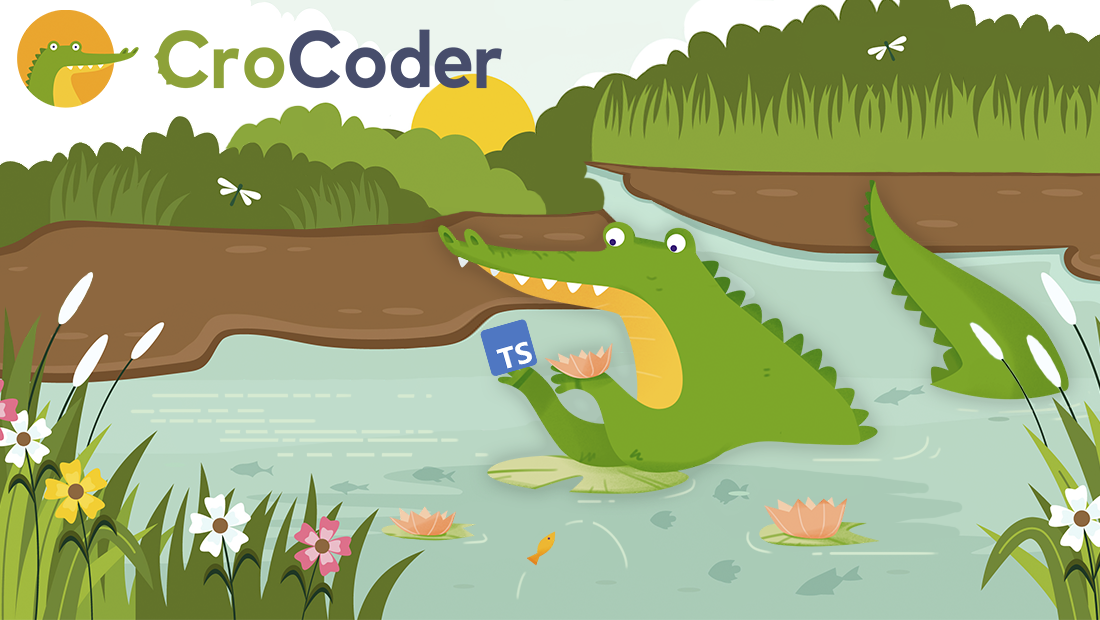
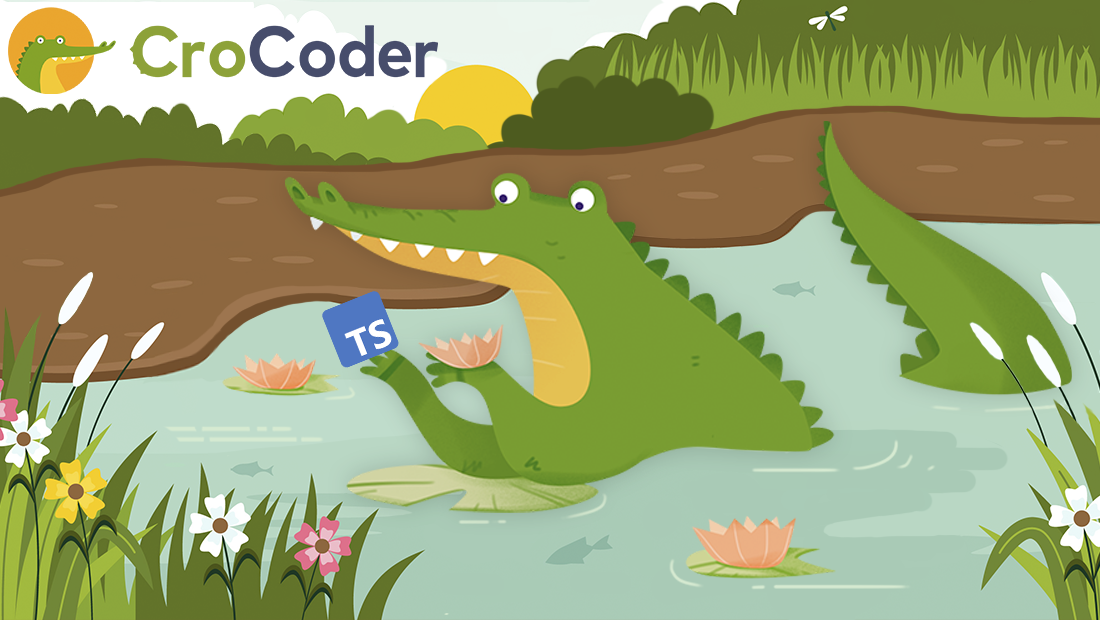
chore: microservice blog update and older hero updates

diff --git a/apps/website/src/content/posts/microservices-are-a-way-to-organize-your-company.md b/apps/website/src/content/posts/microservices-are-a-way-to-organize-your-company.md
@@ -8,7 +8,7 @@ category: "DEVELOPER EXPERIENCE"
 editors: ["velimir"]
 draft: false
 abstract: "Microservices are often praised for boosting team autonomy and enabling rapid development—but are they always the right architectural choice? This article explores the real implications of adopting microservices beyond just technology. It emphasizes that successful microservices architectures align closely with organizational structures, empowering small, autonomous teams to own and deploy services independently. However, without clear boundaries and proper organizational readiness, microservices can quickly turn into fragmented monoliths, introducing unnecessary complexity and operational overhead. Ultimately, choosing microservices involves balancing technical solutions with organizational needs, understanding trade-offs, and critically examining whether you're solving genuine problems or simply following architectural trends."
-image: "/images/crowdstrike-microsoft-incident-breakdown.jpg"
+image: "/images/microservices-are-a-way-to-organize-your-company.png"
 ---
 
 Microservices remind me a bit of Crocs; you either find them practical and comfortable or see them as a questionable fashion choice that somehow became acceptable. 
@@ -50,6 +50,6 @@ In short, microservices aren’t inherently good or bad, they’re just a tool. 
 
 Microservices are great, but they are not for everyone. And that's perfectly okay. 
 
-Done well, they make teams ship independently, scale easier, break complex systems into more managable domains. But if your team structure isn't ready for microservices, you will introduce complexity instead of reducing it.
+Done well, they make teams ship independently, scale easier, break complex systems into more manageable domains. But if your team structure isn't ready for microservices, you will introduce complexity instead of reducing it.
 
 The one question I want you to think about before jumping into migrating the entire system to a new architecture is: am I solving a technical problem or an organizational one?

diff --git a/apps/website/src/content/posts/create-react-app-is-dead-what-are-the-alternatives.md b/apps/website/src/content/posts/create-react-app-is-dead-what-are-the-alternatives.md
@@ -7,7 +7,7 @@ authors: ["david"]
 category: "Learn Javascript"
 editors: ["velimir"]
 abstract: "Create React App seems abandoned and dead. I want to show you some great alternatives that we personally use at CroCoder. T3 Stack is a web development stack created by Theo that focuses on simplicity, modularity, and full-stack type safety. Its core pieces are Next.js, TypeScript, and Tailwind CSS. T3 Stack is a great alternative to Create React App (CRA) because it offers superior performance, faster development time, and is actively maintained. Vite + React is a great alternative to Create React App (CRA) because it offers superior performance and faster development time. Additionally, Next.js is a frontend framework that is built on top of React and is designed to improve the performance, user experience, and SEO of web applications. It provides an out-of-the-box solution for server-side rendering (SSR) of React components, which allows for simple indexable HTML to be sent to the user, making it easier for web crawlers to read the text content of the application, thereby improving its visibility in search engines."
-image: "/images/create-react-app-is-dead-what-are-the-alternatives.jpg"
+image: "/images/create-react-app-is-dead-what-are-the-alternatives.png"
 draft: false
 ---
 

diff --git a/apps/website/src/content/posts/crowdstrike-microsoft-incident-breakdown.md b/apps/website/src/content/posts/crowdstrike-microsoft-incident-breakdown.md
@@ -8,7 +8,7 @@ category: "AWS"
 editors: ["velimir"]
 draft: false
 abstract: "On July 19, 2024, CrowdStrike's Falcon Sensor update caused widespread disruptions on millions of Windows systems, leading to \"blue screens of death\" and boot loops. The issue, an erorr in the C++ code of a system driver, impacted aviation, media, banking, and healthcare sectors, grounding flights and disrupting emergency services. This incident highlights a failure in CrowdStrike's development and deployment processes, as such errors should be caught by automated code sanitization tools. It underscores the importance of rigorous testing, CI/CD practices, and phased rollouts to prevent widespread disruptions in critical systems. Robust testing and deployment strategies are essential, even with memory-safe programming languages."
-image: "/images/crowdstrike-microsoft-incident-breakdown.jpg"
+image: "/images/crowdstrike-microsoft-incident-breakdown.png"
 ---
 
 On July 19th, 2024, CrowdStrike released a critical update for their Falcon Sensor vulnerability scanner, which led to widespread disruptions across millions of Microsoft Windows systems.

diff --git a/apps/website/src/content/posts/callbacks-exercises.md b/apps/website/src/content/posts/callbacks-exercises.md
@@ -7,7 +7,7 @@ authors: ["david"]
 category: "Learn Javascript"
 editors: ["velimir"]
 abstract: "It's really hard to test your programming knowledge after you have completed a tutorial or a lecture. We have prepared some exercises to help out beginner devs to solidify their understanding of callbacks. Every exercise has a brief description of the problem, starting code, links to relevant MDN docs, and expected results. Try to solve the problems without taking a peek at the solution."
-image: "/images/callback-hell.jpg"
+image: "/images/callback-hell.png"
 draft: false
 ---
 
